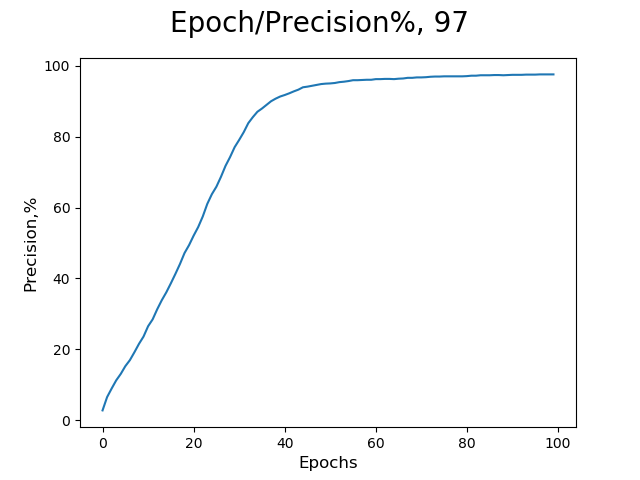
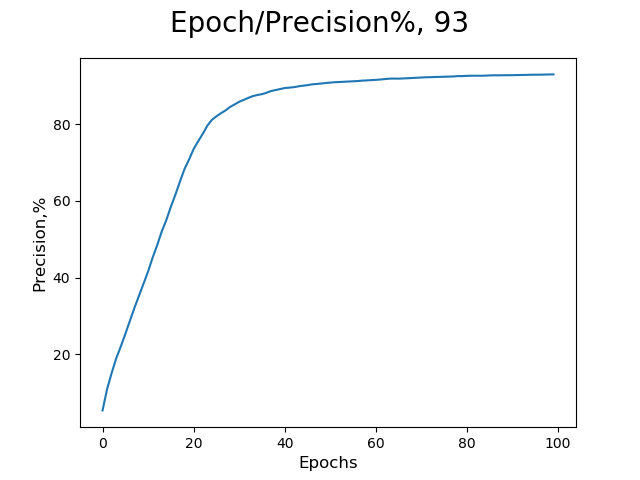
Updated layer-size.

diff --git a/main.py b/main.py
@@ -108,7 +108,7 @@ tokenizer.readFile("train-nn.txt")
 
 epochs = 100
 vocab_size = len(tokenizer.vocab)
-embed_dim = 80  #sqrt(tokenizer.sentences.sz)
+embed_dim = 100  #sqrt(tokenizer.sentences.sz)
 context_wnd = 3 # 2, 3 or 4: [(context_wnd), target]
 
 word_to_ix = {word: i for i, word in enumerate(tokenizer.vocab)}
@@ -234,6 +234,7 @@ for epoch in range(epochs):
 
     epoch_losses[epoch] = losses
     success.append(hits/len(data)*100.0)
+    print("<< " + str(epoch) + " : " + str(hits/len(data)*100.0))
 
 # Analyze: Plot loss/epoch
 def plot_loss():
